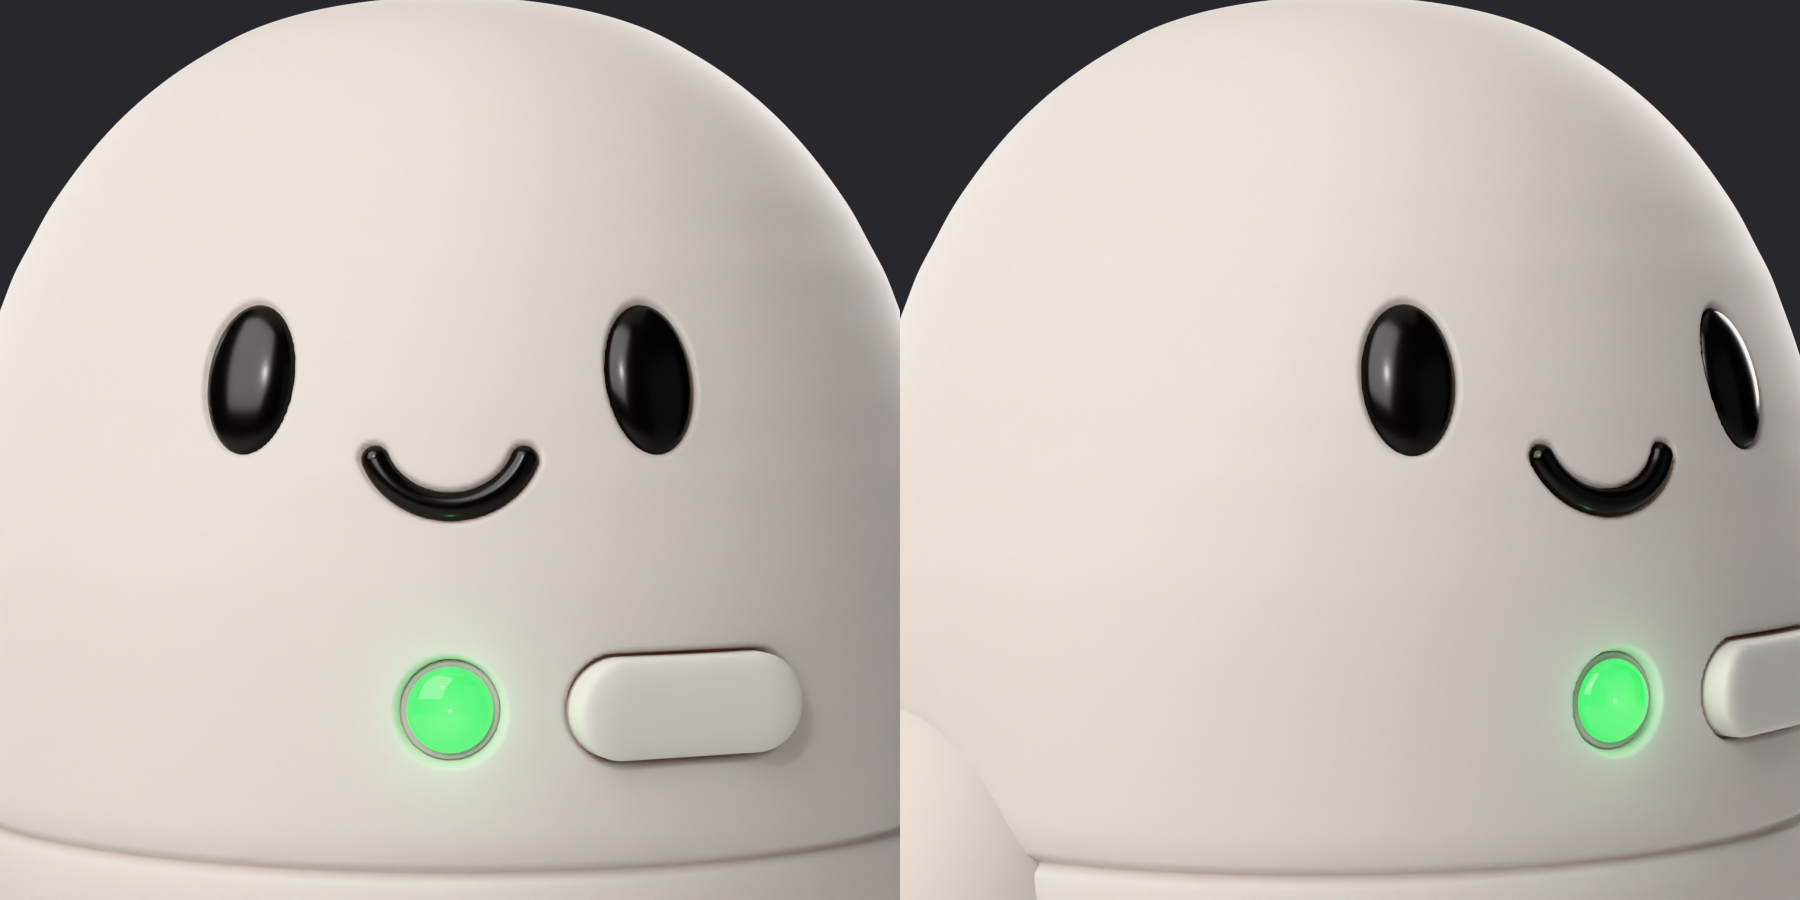
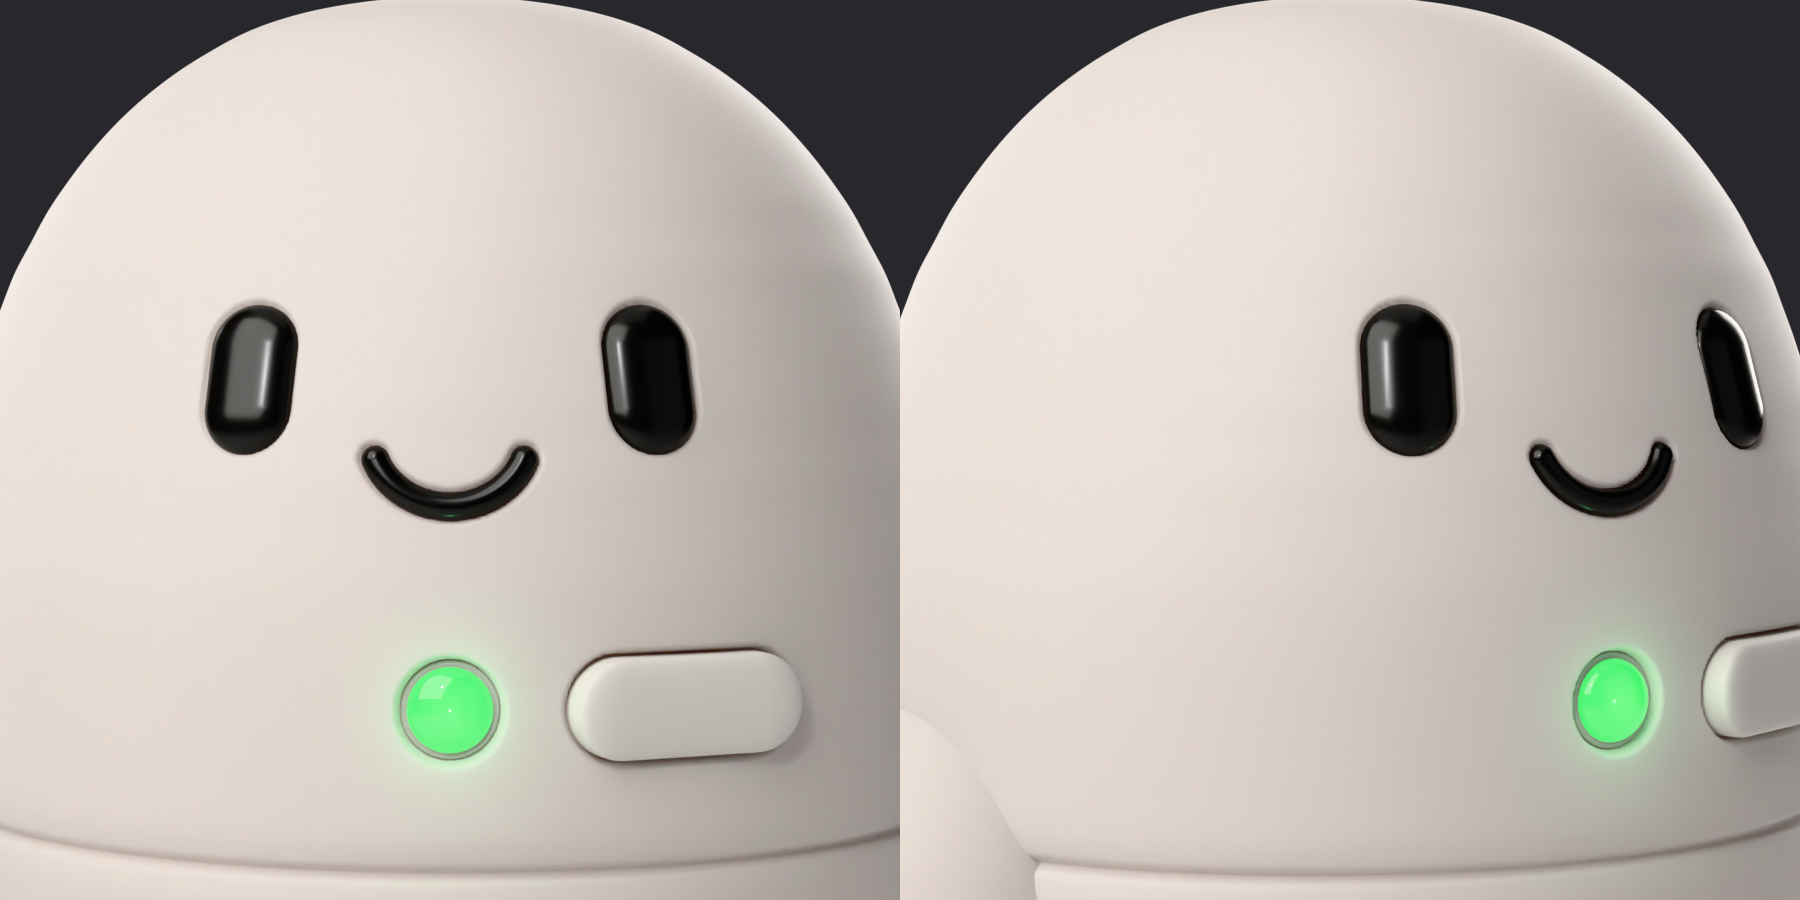
Blender model: pill-shaped eyes in pill-shaped pockets
Claude-Session: https://claude.ai/code/session_01GHKVLWS1xygcGqqrBLencu

diff --git a/design/avatar/build.py b/design/avatar/build.py
@@ -337,8 +337,10 @@ def build(pose='front'):
             # clearly above the shell to catch a highlight.
             D = 0.016
             loc, nor = surface(body, sx * F['eye_x'], eye_s)
-            feats.append(dict(kind='ellipse', frame=frame(loc, nor), a=ew / 2 + 0.0035, b=eh / 2 + 0.0035, depth=D, rho=0.0035))
-            e = sphere('Eye', ew / 2, eh / 2, ew * 0.26, M['gloss'])
+            # A pill (racetrack): straight sides, round ends, domed face; its pocket is the same pill.
+            feats.append(dict(kind='slot', frame=frame(loc, nor, spin=math.pi / 2), half=(eh - ew) / 2,
+                              r=ew / 2 + 0.0035, depth=D, rho=0.0035))
+            e = capsule('Eye', ew, eh, ew * 0.52, segs=64); e.data.materials.append(M['gloss']); parts.append(e)
             orient(e, loc, nor, lift=-D - 0.003)
     if face == 'smile':
         T = 1.2
